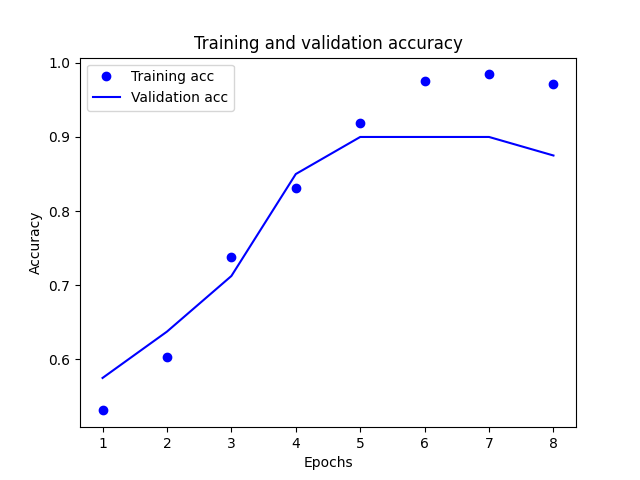
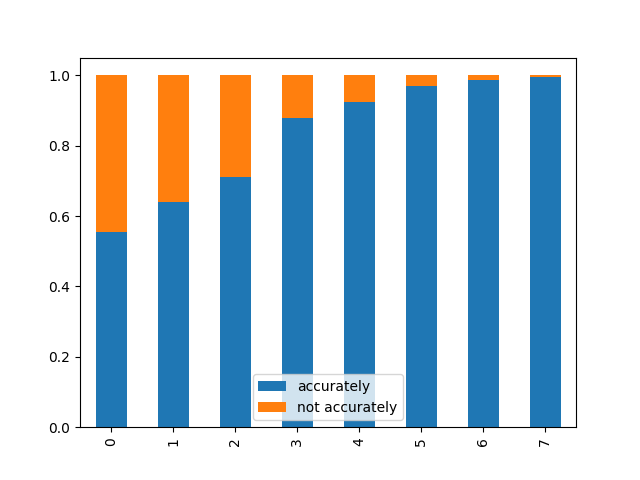
hist fix

diff --git a/8383/Kolmykov/pr/8/task8_v3.py b/8383/Kolmykov/pr/8/task8_v3.py
@@ -5,18 +5,20 @@ from keras.layers import Input, Convolution2D, MaxPooling2D, Dense, Dropout, Fla
 from keras.models import Model
 from keras.callbacks import Callback
 import matplotlib.pyplot as plt
+import pandas as pd
 
 
 def draw_hist(accuracy, val_accuracy, number):
     epochs = range(1, len(accuracy) + 1)
     plt.clf()
-    plt.plot(epochs, accuracy, 'bo', label='Training acc')
-    plt.plot(epochs, val_accuracy, 'b', label='Validation acc')
-    plt.title('Training and validation accuracy')
-    plt.xlabel('Epochs')
-    plt.ylabel('Accuracy')
-    plt.legend()
+    data = {'accurately': accuracy,
+            'not accurately': [(1 - acc) for acc in accuracy]}
+    df = pd.DataFrame(data)
+    df.plot(kind='bar', stacked=True)
     plt.savefig("hist_" + str(number) + ".png")
+    plt.title("Нормализованная гистограмма точности")
+    plt.xlabel("Эпохи")
+    plt.ylabel("Доля")
     plt.show()
 
 
